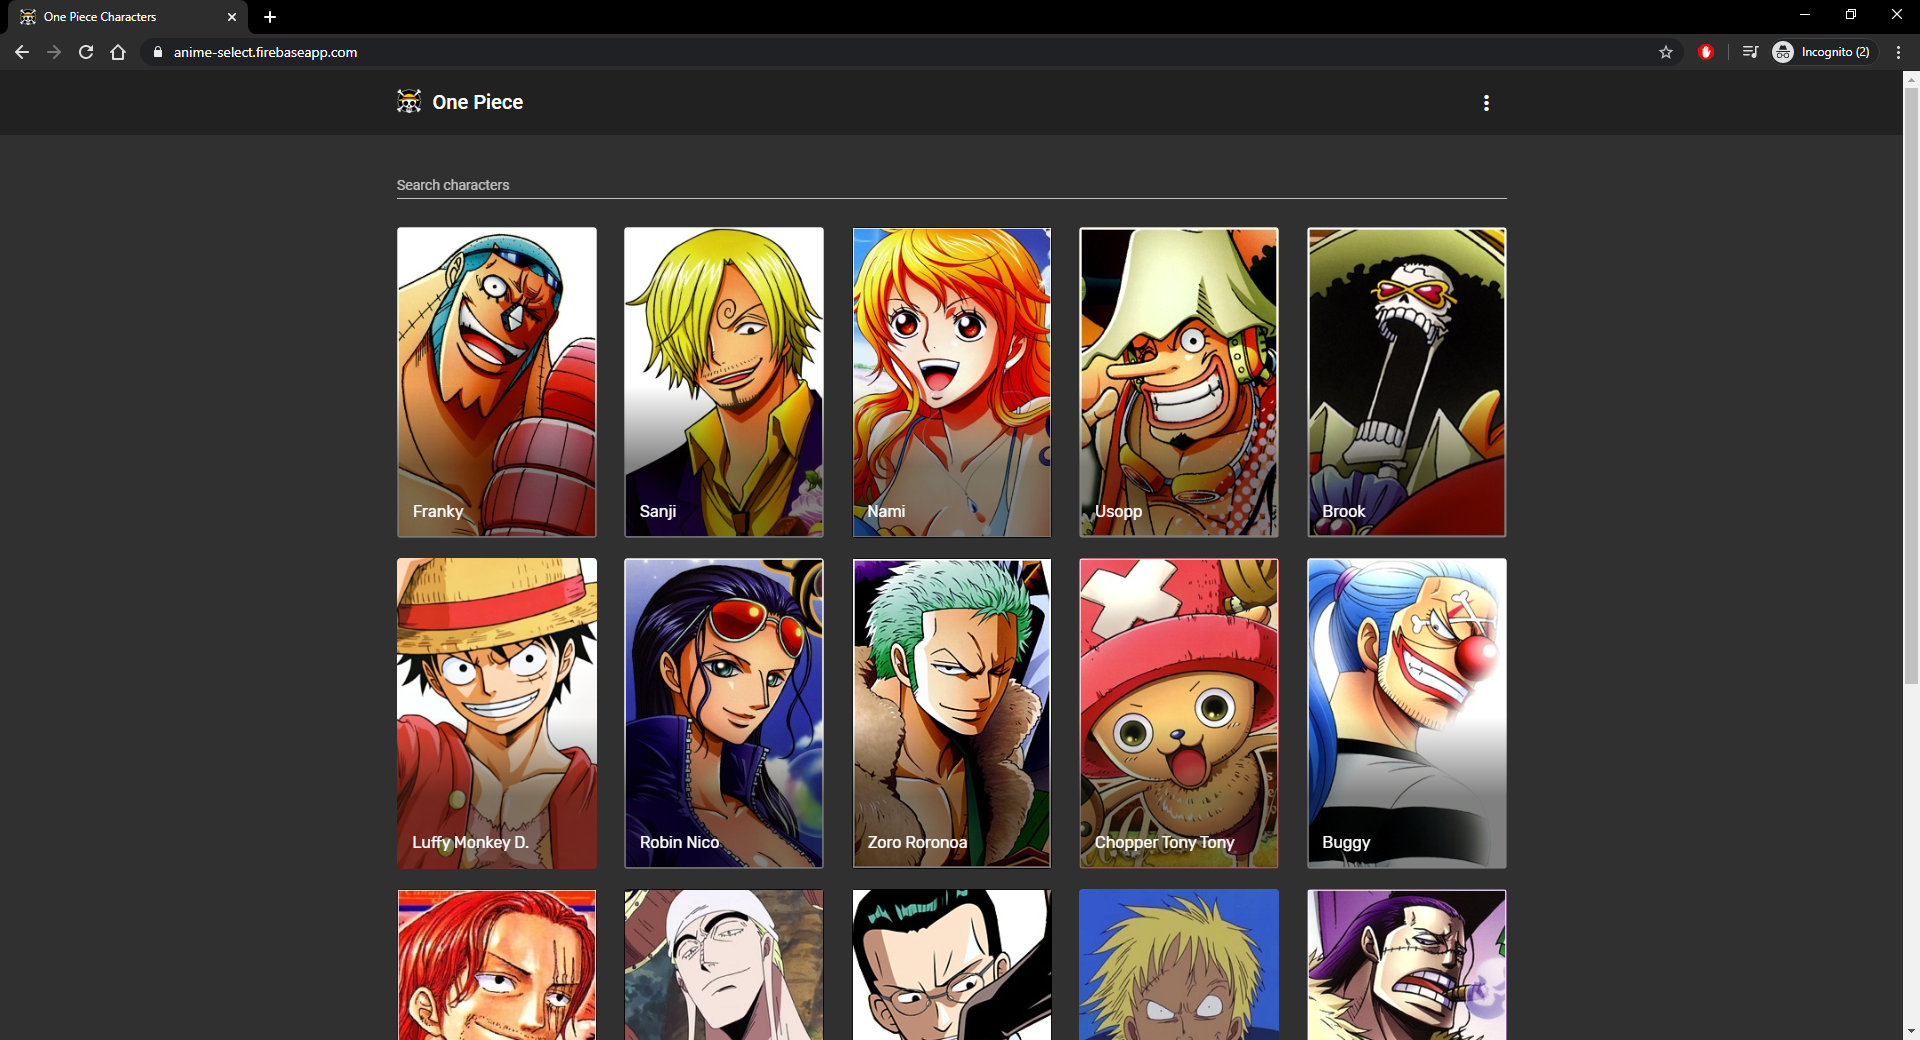
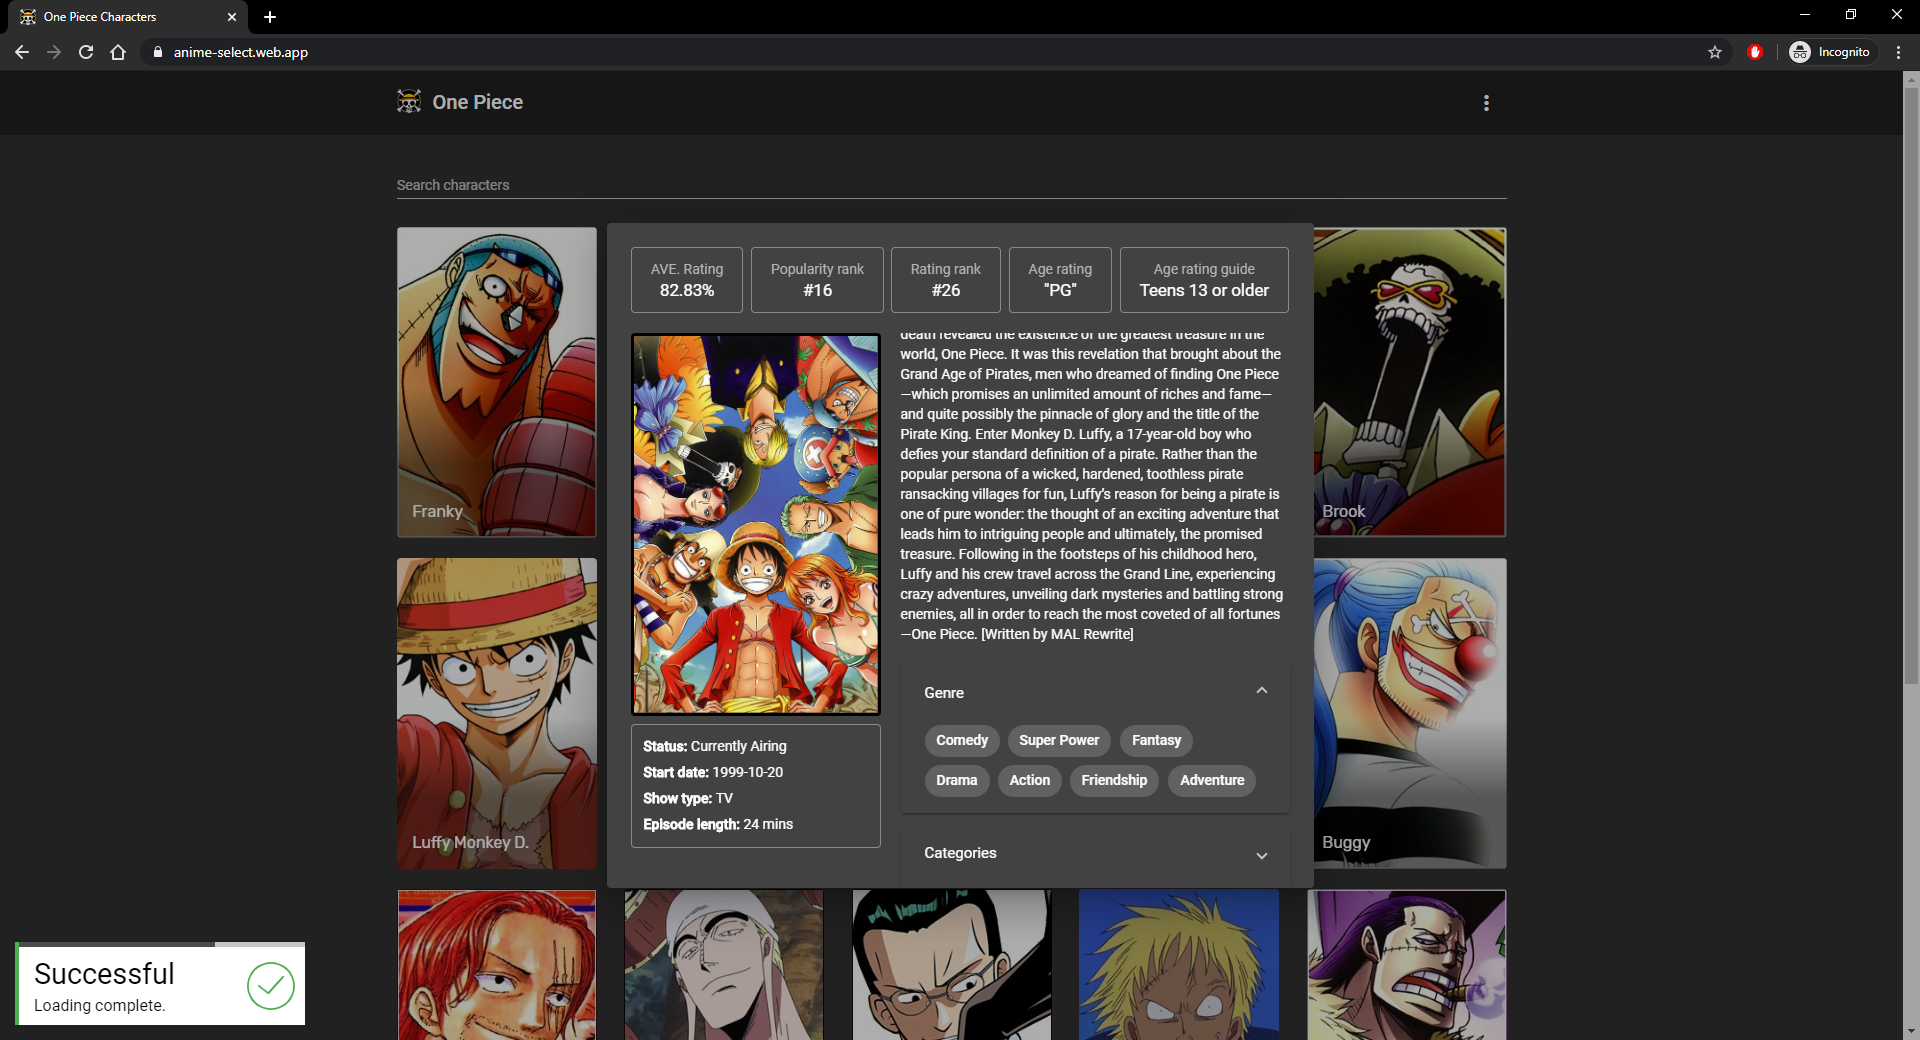
chore: updated readme

diff --git a/README.md b/README.md
@@ -3,10 +3,9 @@
 
 Angular Material demo app.
 
-[demo 1], [demo 2]
+[demo]
 
-[demo 1]: https://anime-select.firebaseapp.com/
-[demo 2]: https://anime-select.firebaseapp.com/
+[demo]: https://anime-select.web.app/
 
 ![alt-text](src/assets/preview.png "Hover text")
 
